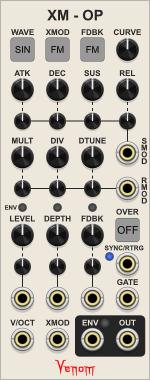
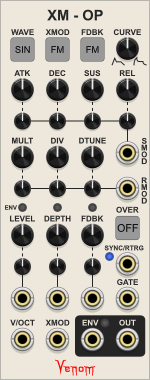
Minor faceplate changes

Changed region(s): [[0.7733, 0.5211, 0.9333, 0.6368], [0.7467, 0.0868, 0.9867, 0.1737]]

diff --git a/src/XM_OP.cpp b/src/XM_OP.cpp
@@ -479,7 +479,7 @@ struct XM_OPWidget : VenomWidget {
     addParam(createLockableParamCentered<WaveSwitch>(Vec(22.5f,49.5f), module, XM_OP::WAVE_PARAM));
     addParam(createLockableParamCentered<OpSwitch>(Vec(57.5f,49.5f), module, XM_OP::XM_TYPE_PARAM));
     addParam(createLockableParamCentered<OpSwitch>(Vec(92.5f,49.5f), module, XM_OP::FDBK_TYPE_PARAM));
-    addParam(createLockableParamCentered<RoundSmallBlackKnobLockable>(Vec(127.5f,49.5f), module, XM_OP::CURVE_PARAM));
+    addParam(createLockableParamCentered<RoundSmallBlackKnobLockable>(Vec(127.5f,48.5f), module, XM_OP::CURVE_PARAM));
 
     addParam(createLockableParamCentered<RoundSmallBlackKnobLockable>(Vec(22.5f,89.5f), module, XM_OP::ATK_PARAM));
     addParam(createLockableParamCentered<RoundSmallBlackKnobLockable>(Vec(57.5f,89.5f), module, XM_OP::DEC_PARAM));
@@ -505,7 +505,7 @@ struct XM_OPWidget : VenomWidget {
     addParam(createLockableParamCentered<EnvSwitch>(Vec(57.5f,207.5f), module, XM_OP::DEPTH_ENV_PARAM));
     addParam(createLockableParamCentered<EnvSwitch>(Vec(92.5f,207.5f), module, XM_OP::FDBK_ENV_PARAM));
 
-    addParam(createLockableParamCentered<OverSwitch>(Vec(127.5f,230.f), module, XM_OP::OVER_PARAM));
+    addParam(createLockableParamCentered<OverSwitch>(Vec(127.5f,228.f), module, XM_OP::OVER_PARAM));
 
     addParam(createLockableParamCentered<RoundSmallBlackKnobLockable>(Vec(22.5f,235.f), module, XM_OP::LEVEL_PARAM));
     addParam(createLockableParamCentered<RoundSmallBlackKnobLockable>(Vec(57.5f,235.f), module, XM_OP::DEPTH_PARAM));
